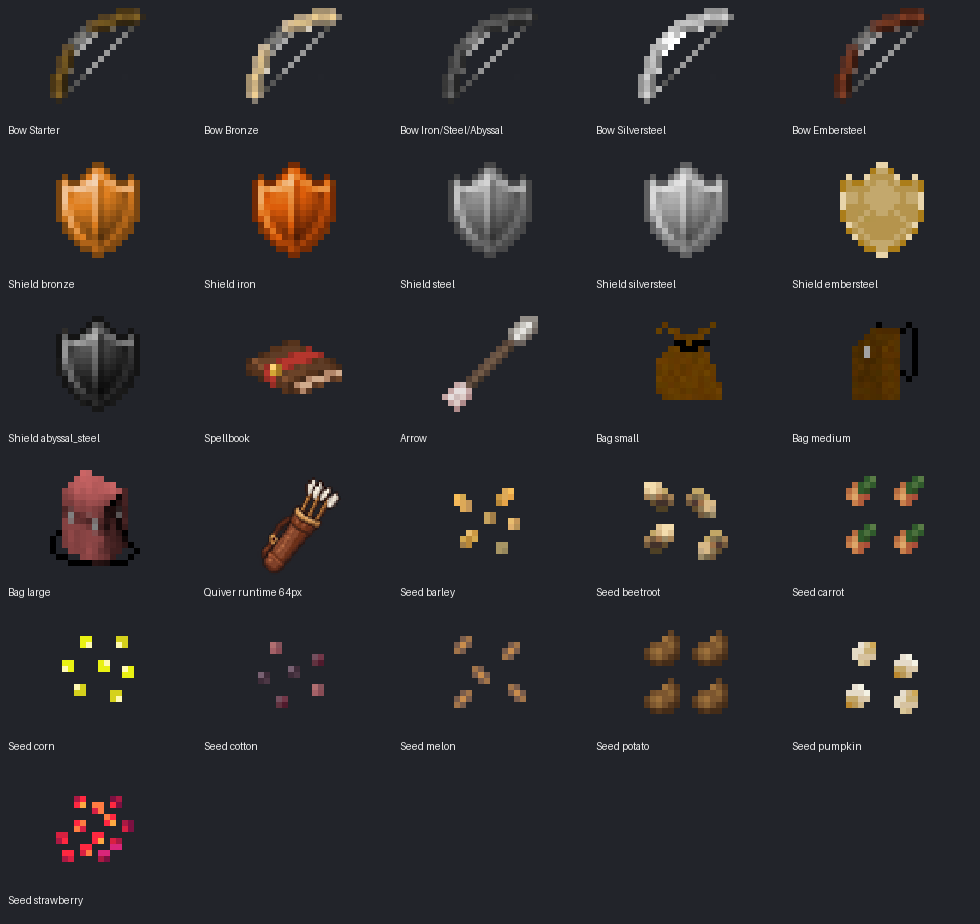
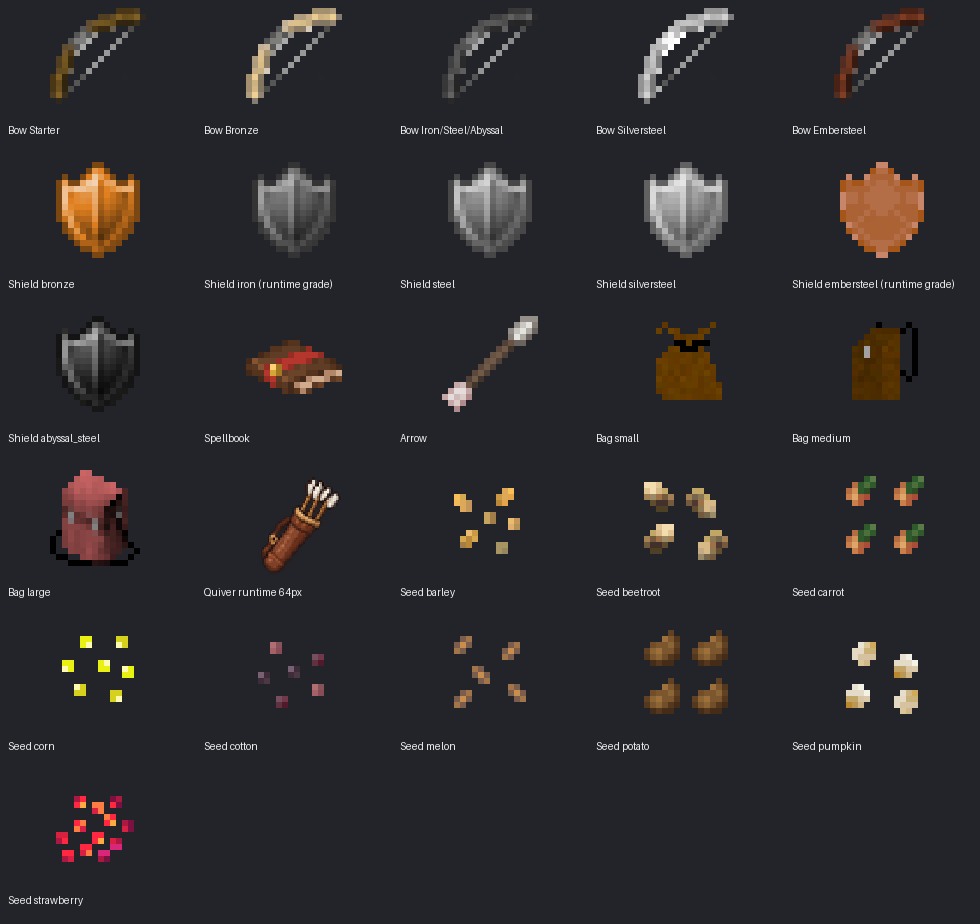
fix: grade iron and embersteel shields

diff --git a/tools/r11_art/render_sheet.py b/tools/r11_art/render_sheet.py
@@ -1,20 +1,33 @@
 #!/usr/bin/env python3
 """Render the actual stored R11 ART inventory media into one review sheet."""
 from pathlib import Path
-from PIL import Image, ImageDraw
+from PIL import Image, ImageDraw, ImageEnhance
 import sys
 
 root=Path(sys.argv[1] if len(sys.argv)>1 else ".").resolve()
 out=Path(sys.argv[2] if len(sys.argv)>2 else "/tmp/r11-art-sheet.png")
 rows=[]
-def add(label,path):
- im=Image.open(root/path).convert("RGBA"); rows.append((label,im))
+def add(label,path,treatment=None):
+ im=Image.open(root/path).convert("RGBA")
+ if treatment == "iron":
+  alpha=im.getchannel("A")
+  im=ImageEnhance.Color(im).enhance(0.0)
+  im=ImageEnhance.Brightness(im).enhance(0.88)
+  im.putalpha(alpha)
+ elif treatment == "embersteel":
+  alpha=im.getchannel("A")
+  grade=Image.new("RGBA",im.size,(159,36,24,255))
+  im=Image.blend(im,grade,112/255)
+  im.putalpha(alpha)
+ rows.append((label,im))
 gear=Path("mods/ITEMS/grug_gear/textures")
 for label,file in [("Starter","grug_gear_bow_wood.png"),("Bronze","grug_gear_bow_lebethron.png"),
  ("Iron/Steel/Abyssal","grug_gear_bow_birch.png"),("Silversteel","grug_gear_bow_mallorn.png"),
  ("Embersteel","grug_gear_bow_alder.png")]:add("Bow "+label,gear/file)
 for material in ("bronze","iron","steel","silversteel","embersteel","abyssal_steel"):
- add("Shield "+material,gear/("grug_gear_shield_"+material+".png"))
+ treatment=material if material in ("iron","embersteel") else None
+ suffix=" (runtime grade)" if treatment else ""
+ add("Shield "+material+suffix,gear/("grug_gear_shield_"+material+".png"),treatment)
 add("Spellbook",gear/"grug_gear_spellbook.png");add("Arrow",gear/"grug_gear_arrow.png")
 inv=Path("mods/PLAYER/grug_inventory/textures")
 for size in ("small","medium","large"):add("Bag "+size,inv/("grug_inventory_bag_"+size+".png"))

diff --git a/docs/research/round11-art-evidence.md b/docs/research/round11-art-evidence.md
@@ -8,8 +8,10 @@ pending. No main merge, sync, push or GUI acceptance is claimed.
 - Seven bow identities use five visually inspected Lord of the Test arc sprites:
   plain wood for the starter, Lebethron for Bronze, Birch for Iron and the
   brighter Steel / violet Abyssal grades, Mallorn for Silversteel and warm Alder
-  for Embersteel. Six shield identities use the matching Bronze, Copper, Steel,
-  Silver, Gold and Galvorn shield silhouettes. All sources are pinned at
+  for Embersteel. Six shield identities use the Bronze, Copper, Steel, Silver,
+  Gold and Galvorn shield silhouettes; the Copper source receives the dull-grey
+  Iron grade and the Gold source receives the red Embersteel grade at
+  registration. All sources are pinned at
   `f164140154945f0b356521ae721a86e9c7a0e0cf`, CC BY-SA 3.0.
 - The Goldsmith book and player arrow use VoxeLibre's enchanted-book and arrow
   inventory sprites at `c2dbc520ff4e1637072d33b06c3a2404e0f08df7`, CC BY-SA
@@ -49,12 +51,13 @@ icon and no upstream code is imported.
 - Plain Lua 5.1 parsing passed for all changed Lua files. SETGLOBAL inspection
   finds only the declared `grug_gear` table. All five sweeps were inspected;
   hits are existing comments or string vocabularies. No PUC runtime was run.
-- `evidence/media-sheet.png` is the enlarged actual-media inventory review.
+- `evidence/media-sheet.png` is the enlarged inventory review and applies the
+  registered Iron and Embersteel shield treatments to the source pixels.
   `evidence/wield-bow.png` is a live-transform side-view comparison: the old
   tool grip visibly hangs the bow by its end, while the Round 11 pose holds the
   arc midpoint through all four sampled arm angles.
 - `source-inputs.sha256`, `media.sha256` and `views.sha256` bind production,
   fixtures, every changed/imported media file and both inspected views.
 
-Final first-person/third-person appearance, runtime texture modifiers and the
-inventory scale remain fresh-world GUI acceptance items.
+Final first-person/third-person appearance and inventory scale remain
+fresh-world GUI acceptance items.

diff --git a/mods/ITEMS/grug_gear/LICENSE-media.md b/mods/ITEMS/grug_gear/LICENSE-media.md
@@ -68,7 +68,7 @@ license. Native texture modifiers provide the noted material grades.
 | `grug_gear_bow_birch.png` | `lottthrowing_bow_wood_birch.png` | unchanged Iron; HSL-brightened Steel; violet Abyssal Steel |
 | `grug_gear_bow_mallorn.png` | `lottthrowing_bow_wood_mallorn.png` | unchanged Silversteel |
 | `grug_gear_bow_alder.png` | `lottthrowing_bow_wood_alder.png` | warm Embersteel grade |
-| `grug_gear_shield_{bronze,iron,steel,silversteel,embersteel,abyssal_steel}.png` | `lottarmor_inv_shield_{bronze,copper,steel,silver,gold,galvorn}.png` | unchanged renamed copies |
+| `grug_gear_shield_{bronze,iron,steel,silversteel,embersteel,abyssal_steel}.png` | `lottarmor_inv_shield_{bronze,copper,steel,silver,gold,galvorn}.png` | renamed copies; Iron receives a dull-grey HSL grade and Embersteel a red color grade at registration |
 
 ## Round 11 book and arrow — CC BY-SA 4.0
 

diff --git a/tools/r11_art/README.md b/tools/r11_art/README.md
@@ -11,7 +11,8 @@ python3 tools/r11_art/render_bow_pose.py /tmp/r11-art-pose
 The first fixture checks every imported media binding and then exercises the
 real gear registration plus the real group-to-pose and attachment consumers.
 The media sheet shows stored source pixels enlarged with nearest-neighbor
-sampling; the quiver is shown at its runtime 64px bound. The bow-pose renderer
+sampling, applies the registered Iron and Embersteel shield grades, and shows
+the quiver at its runtime 64px bound. The bow-pose renderer
 reads the live transform through LuaJIT and maps every source pixel through the
 same attachment matrix as the existing WP13 geometry fixture. Its body is a
 schematic side view, so final first/third-person aesthetics remain a GUI gate.
